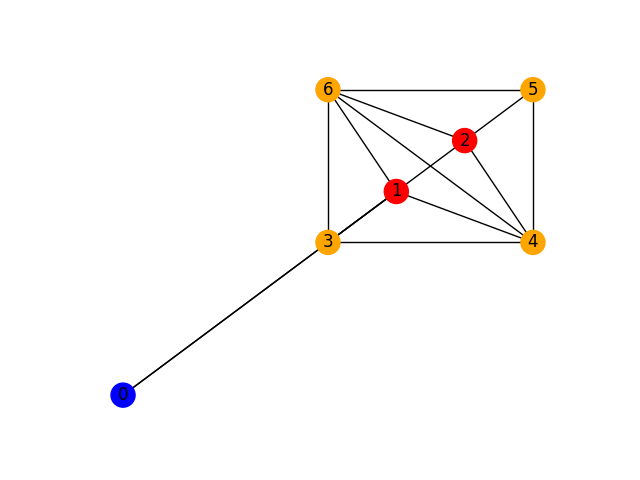
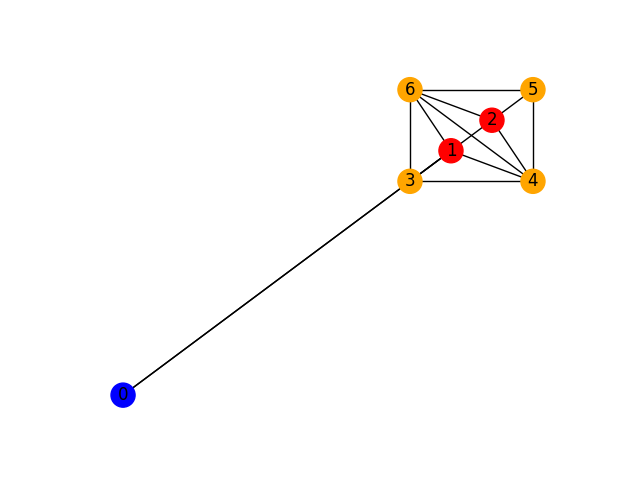
fixed p2 production and drawing graph by level

Changed region(s): [[0.4688, 0.1562, 0.875, 0.5312], [0.5625, 0.2812, 0.5938, 0.3438]]

diff --git a/productions/p2.py b/productions/p2.py
@@ -45,17 +45,20 @@ def make_right_side_nodes_and_edges(unique_id : int, coords: tuple[list, list], 
     y = coords[1]
 
 
-    parent_node = Node(id = unique_id, label='i', x=(x[0] + x[1] + x[2]) /3, y=(y[0] + y[1] + y[2])/3, level = level+1)
+    parent_node = Node(id = unique_id, label='i', x=(x[0] + x[1] + x[2]) /3, y=(y[0] + y[1] + y[2])/3, level = level)
     right_nodes = [
         Node(id = 1, label='I', x=(x[1] + x[2] + x[3]) /3, y=(y[1] + y[2] + y[3]) / 3, level = level+1 ),
         Node(id = 2, label='I',x=(x[0] + x[1] + x[2]) /3, y=(y[0] + y[1] + y[2])*2 / 7, level = level+1),
-        Node(id = 3, label='E', x=x[3], y=y[3], level = level+1)
+        Node(id = 3, label='E', x=x[0], y=y[0], level = level+1),
+        Node(id = 4, label='E', x=x[1], y=y[1], level = level+1),
+        Node(id = 5, label='E', x=x[2], y=y[2], level = level+1),
+        Node(id = 6, label='E', x=x[3], y=y[3], level = level+1)
     ]
 
     nodes = [parent_node] + right_nodes
 
     edges = [
-        (unique_id, 1), (unique_id, 2), (unique_id+3,unique_id+1), (unique_id+3,3), (unique_id+3,1), (unique_id+1,unique_id+2), (unique_id+1,3), (unique_id+1,2), (unique_id+2,1), (unique_id+2,2), (unique_id+2,3), (3,1), (3,2),
+        (unique_id, 1), (unique_id, 2), (3,4), (3,6), (4,1), (4,5), (4,6), (4,2), (5,1), (5,2), (5,6), (6,1), (6,2),
     ]
           
 

diff --git a/main.py b/main.py
@@ -13,14 +13,7 @@ if __name__ == '__main__':
 
     p1(graph, 0)
     print(graph._node)
-
-    # graph.nodes[1][Attr_MAP.label] = "i"
-    # graph.remove_edge(4,5)
-    # # graph.add_nodes_from([Node(7, label='El', x=60, y=45, level = 1).graph_adapter()])
-    # # graph.add_edges_from(((4,7),(5,7)))
-    draw_graph(graph, name='production1')
     p2(graph, 1)
-    # p2(graph, 1)
 
     print(graph._node)
     draw_graph(graph, name='production2')

diff --git a/draw.py b/draw.py
@@ -13,7 +13,7 @@ label_color_map = {
 def draw_graph(graph : nx.Graph, name: str):
     data =  graph._node
 
-    pos = {k:(v[Attr_MAP.x], v[Attr_MAP.y])for k,v in data.items()}
+    pos = {k:(v[Attr_MAP.x]+40*v[Attr_MAP.level], v[Attr_MAP.y]+40*v[Attr_MAP.level])for k,v in data.items()}
     color_list = [label_color_map[v[Attr_MAP.label]] for k,v in data.items()]
 
     nx.draw_networkx(graph, pos, node_color=color_list)

diff --git a/productions/p1.py b/productions/p1.py
@@ -21,8 +21,8 @@ def update_x_y_coords(graph: nx.Graph, mapping: dict) -> tuple[list, list]:
     return x_coords, y_coords
 
 def make_right_side_nodes_and_edges(unique_id : int, coords: tuple[list, list], level) -> tuple[list[Node], list, Node]:
-    upper = 60.0
-    lower = 30.0
+    upper = 30
+    lower = 0
     x = coords[0]
     y = coords [1]
     parent_node = Node(id = unique_id, label='el', x = x[0], y = y[0])
